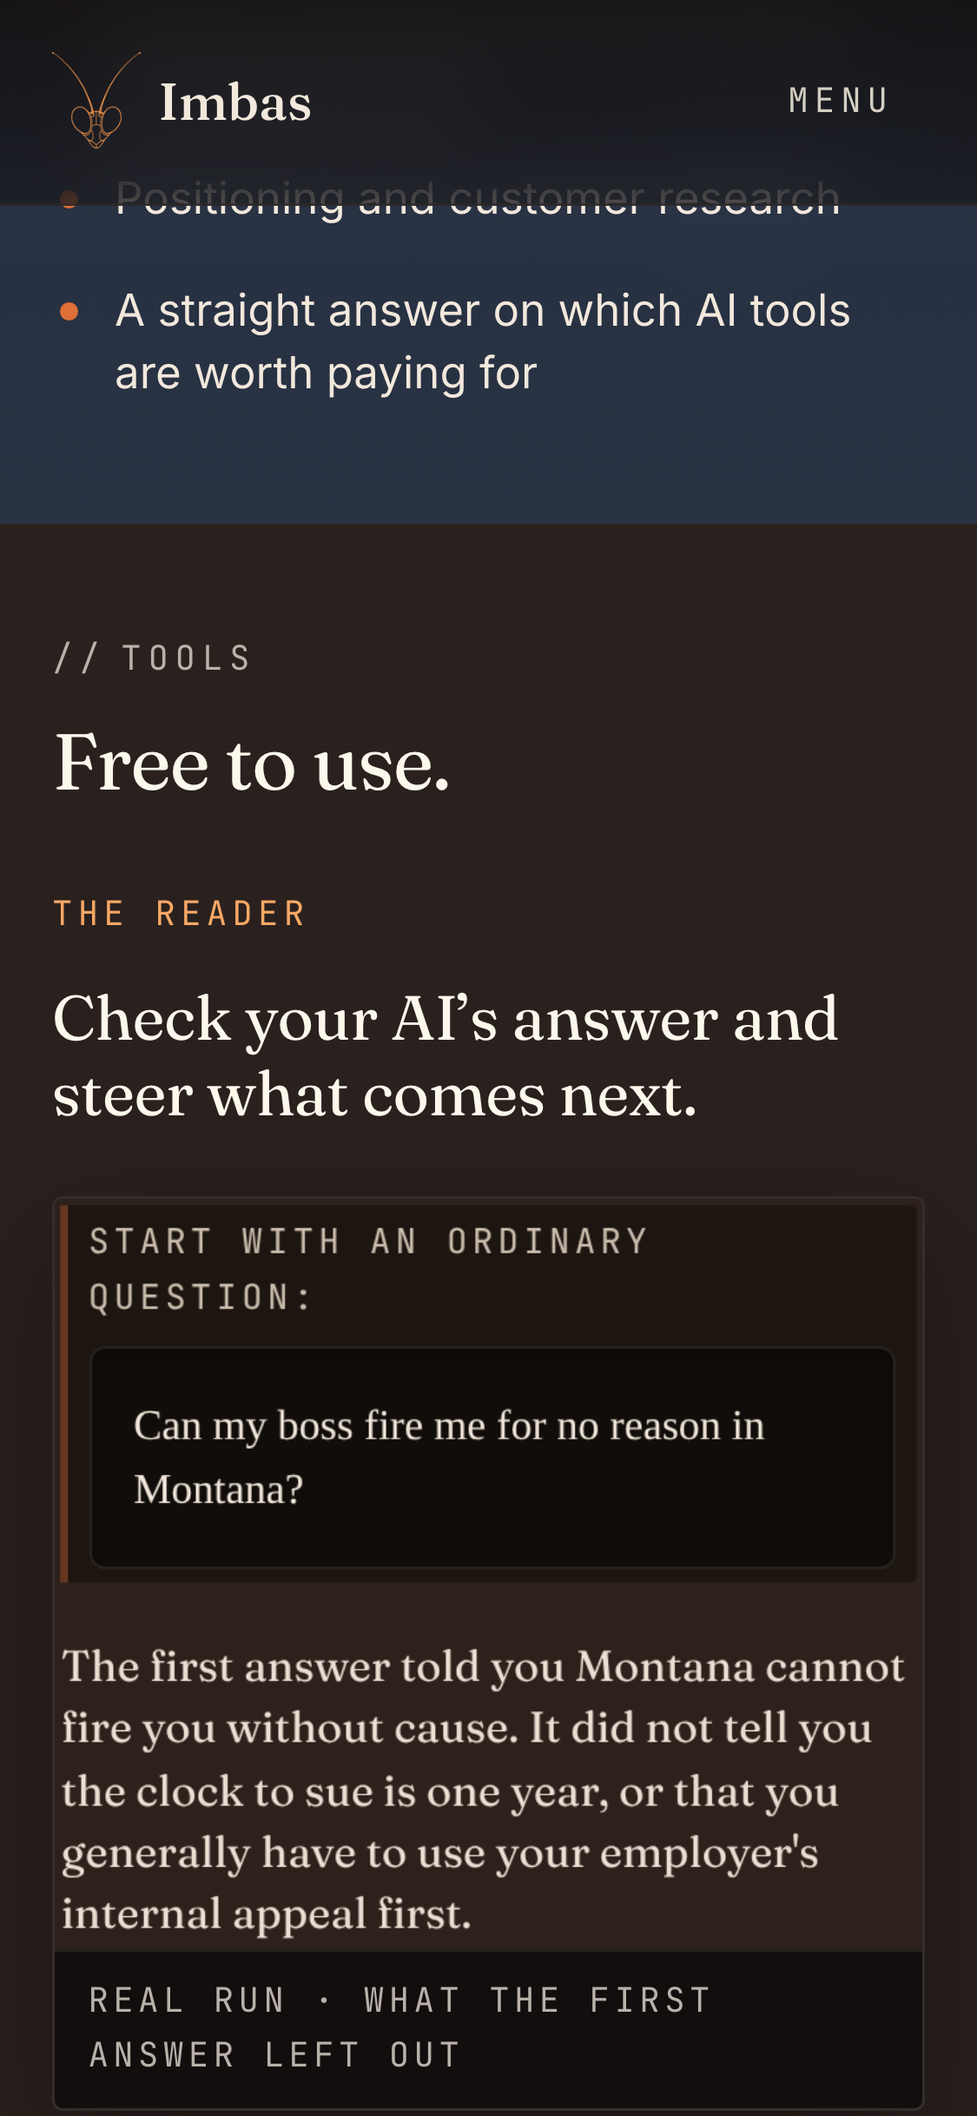
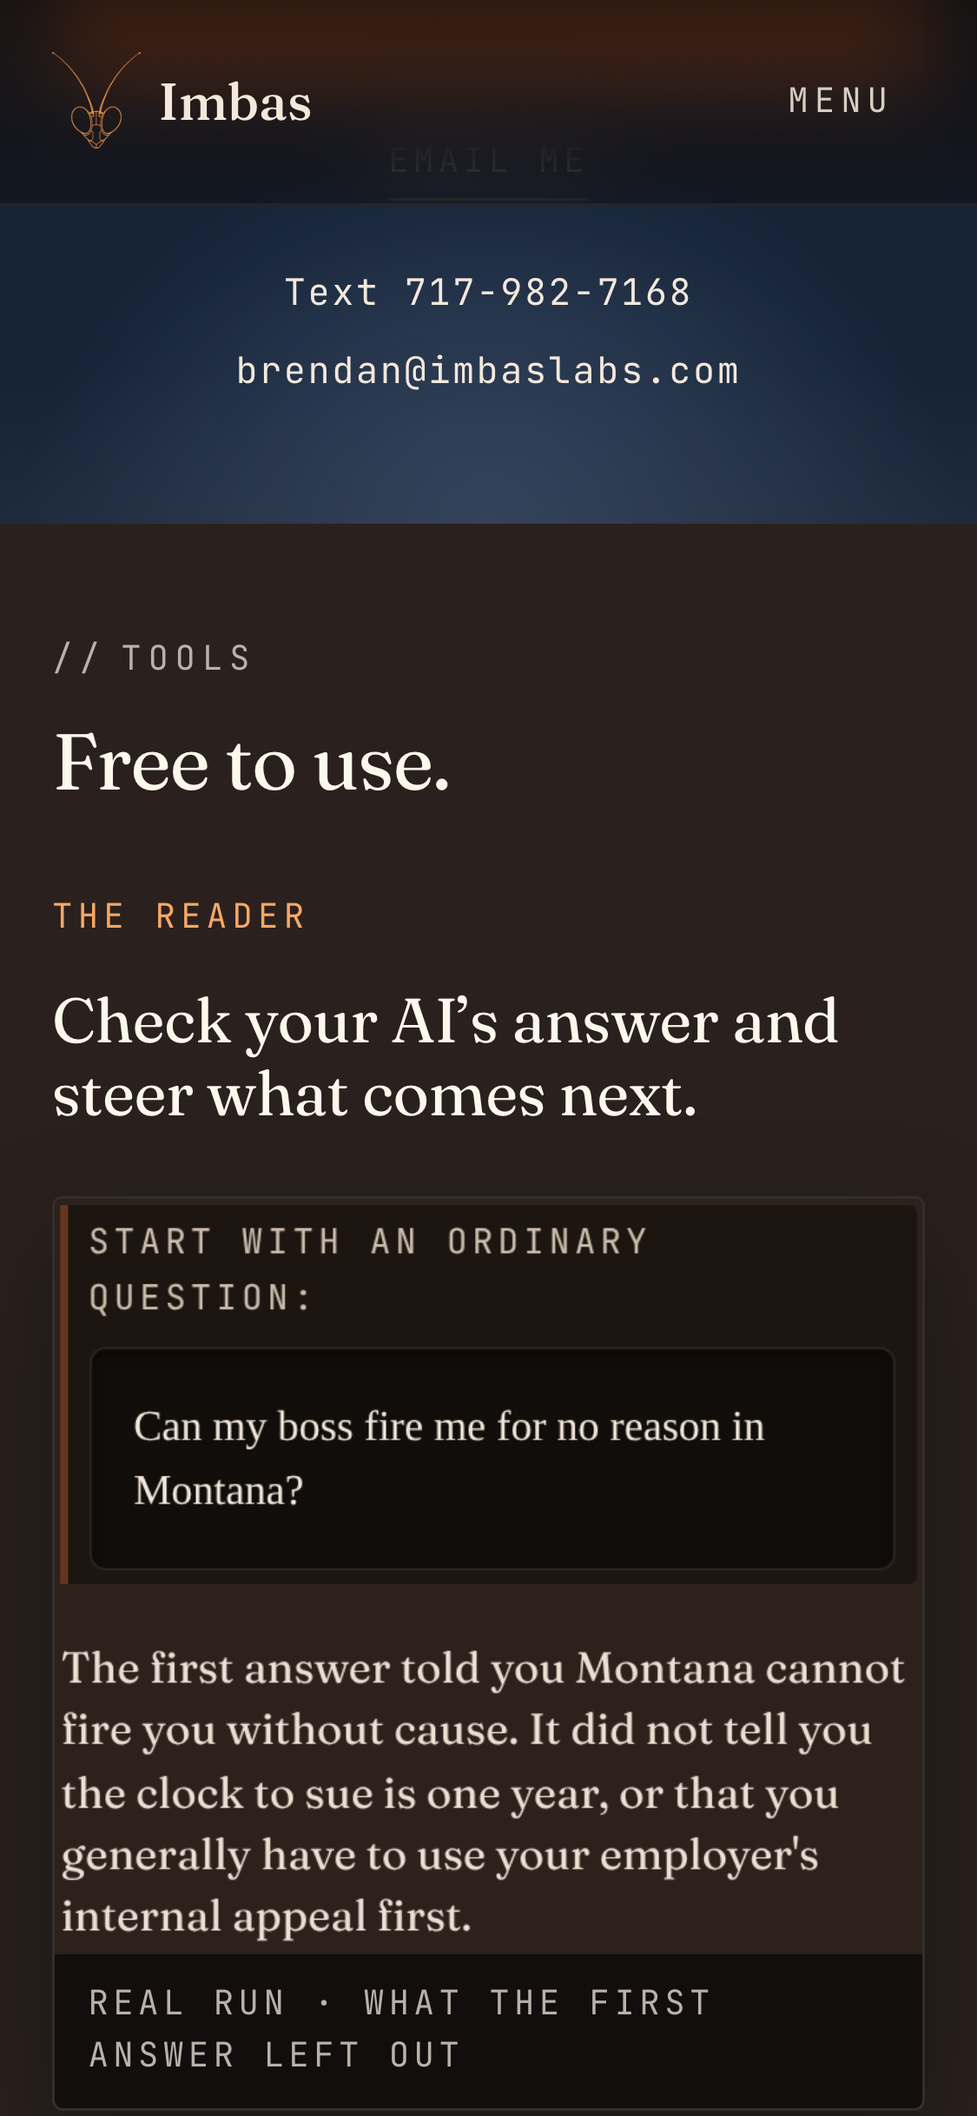
Show who I am, three reviews and a way to reply on the homepage
Item 2 of the founder brief "Homepage: ready for outreach". New order:
hero, advisory band, who you'd work with, work with me, tools, research,
why Imbas exists, the drift section and the Updates signup.

- Hero: "Work with me" links to #work-with-me.
- Advisory band: "Work with me" links to #work-with-me, with a "What I
  take on" text link to /advisory.html beside it and "The first
  conversation is free." under them. Copy unchanged.
- New, warm: Advisory's person block word for word (label, photo, name,
  LinkedIn, bio) with "Lykens, Pennsylvania" under the name, the 101
  five-star reviews tile only, then the reviews heading, note and first
  three quotes with their dates.
- New, cool navy, id work-with-me: Advisory's closing heading, note and
  free line word for word, then the reply block: Text me
  (sms:+17179827168?&body=Hi%20Brendan%2C%20I%20found%20you%20through%20imbaslabs.com.%20),
  Email me (the existing mailto), "Text 717-982-7168" and the address.
  The confidentiality note stays on Advisory.

The bands still alternate: slate, warm, navy, warm, navy, warm, slate,
warm. The rules for the reused blocks moved from advisory.html into
styles.css instead of being copied; Advisory renders byte-identical to
master at 1440 and 390 after the move (full-page captures).

Board: home-tools moved at both viewports and nothing else did. With
only index.html reverted to ec4d511 in a throwaway copy both frames
[…]

diff --git a/advisory.html b/advisory.html
@@ -32,8 +32,6 @@
   <style>
     /* Advisory page. Tokens only, no new colours. */
     .adv { background: var(--bg-base); }
-    .adv-wrap { max-width: 1120px; margin: 0 auto; padding: 0 var(--space-4); }
-    .adv-label { margin-bottom: var(--space-3); }
 
     /* Masthead (unchanged) */
     .adv-hero { position: relative; overflow: hidden; padding: var(--space-6) 0 var(--space-5); border-bottom: 1px solid var(--line-faint); }
@@ -65,25 +63,13 @@
     .band-cool--navy { background: radial-gradient(ellipse 70% 42% at 50% 100%, var(--slate-bloom), transparent 68%), var(--bg-base); }
     .band-cool--navy::before { background: radial-gradient(ellipse 82% 46% at 50% 108%, var(--slate-bloom), transparent 66%), radial-gradient(ellipse 48% 32% at 18% 18%, var(--slate-deeper), transparent 74%); opacity: 0.68; }
 
-    .adv-band h2 { font-family: var(--font-display); font-weight: 400; color: var(--ink-luminous); font-size: clamp(1.6rem, 2.6vw, 2.1rem); line-height: 1.15; margin: 0 0 var(--space-3); }
-    .adv-intro { font-family: var(--font-display); font-size: clamp(1.1rem, 1.7vw, 1.3rem); line-height: 1.5; color: var(--ink-soft); max-width: 52ch; margin: 0 0 var(--space-5); }
-
     /* What I take on */
     .adv-work { list-style: none; margin: 0; padding: 0; display: grid; grid-template-columns: repeat(2, minmax(0, 1fr)); gap: var(--space-4) var(--space-5); max-width: 1040px; }
     .adv-work li { display: grid; grid-template-columns: 10.5rem 1fr; gap: var(--space-2); }
     .adv-work span { font-family: var(--font-mono); font-size: max(0.75rem, var(--mono-min)); letter-spacing: 0.14em; text-transform: uppercase; color: var(--ember-bright); padding-top: 0.3rem; }
     .adv-work p { margin: 0; font-size: 1.0625rem; line-height: 1.55; color: var(--ink-primary); }
 
-    /* Who you'd work with */
-    .adv-who { display: grid; grid-template-columns: 6fr 5fr; gap: var(--space-5); align-items: start; }
-    .adv-person { display: grid; grid-template-columns: 140px 1fr; gap: var(--space-4); align-items: start; }
-    .adv-person__photo { display: block; width: 140px; height: 140px; object-fit: cover; border-radius: 4px; }
-    .adv-name-row { display: flex; flex-wrap: wrap; align-items: baseline; gap: 0.4rem 1.1rem; margin: 0 0 var(--space-3); }
-    .adv-name-row h2 { margin: 0; }
-    .adv-founder-p { font-size: 1.0625rem; line-height: 1.65; color: var(--ink-soft); margin: 0 0 var(--space-3); max-width: 60ch; }
-    .adv-stats { list-style: none; margin: 0; padding: 0; display: grid; grid-template-columns: repeat(2, minmax(0, 1fr)); gap: var(--space-4) var(--space-3); }
-    .adv-stats b { display: block; font-family: var(--font-display); font-weight: 400; font-size: clamp(1.6rem, 2.6vw, 2.1rem); line-height: 1.1; color: var(--ink-luminous); margin-bottom: 0.35rem; }
-    .adv-stats span { display: block; font-size: 0.95rem; line-height: 1.4; color: var(--ink-secondary); }
+    /* Who you'd work with: the person and stats rules are in styles.css, shared with the homepage. */
     .adv-built { margin: var(--space-6) 0 0; display: grid; grid-template-columns: 5fr 7fr; gap: var(--space-5); align-items: center; }
     .adv-built__label { display: block; font-family: var(--font-mono); font-size: max(0.75rem, var(--mono-min)); letter-spacing: 0.16em; text-transform: uppercase; color: var(--ember-soft); margin: 0 0 var(--space-3); }
     .adv-built ul { list-style: none; margin: 0 0 var(--space-3); padding: 0; }
@@ -94,41 +80,26 @@
     .adv-built__shot img { display: block; width: 100%; height: auto; border: 1px solid var(--line-soft); border-radius: 4px; box-shadow: 0 20px 50px rgba(0,0,0,0.35); }
     .adv-built__cap { margin: var(--space-2) 0 0; font-family: var(--font-mono); font-size: max(0.6875rem, var(--mono-min)); letter-spacing: 0.14em; text-transform: uppercase; color: var(--ink-secondary); }
 
-    /* Reviews */
-    .adv-quotes { display: grid; grid-template-columns: repeat(2, minmax(0, 1fr)); gap: var(--space-5) var(--space-6); max-width: 1040px; }
-    .adv-quotes blockquote { margin: 0; }
-    .adv-quotes p { margin: 0 0 var(--space-2); font-family: var(--font-display); font-size: 1.2rem; line-height: 1.5; color: var(--ink-luminous); }
-    .adv-quotes cite { font-style: normal; font-family: var(--font-mono); font-size: max(0.75rem, var(--mono-min)); letter-spacing: 0.14em; text-transform: uppercase; color: var(--ink-secondary); }
-
     /* How I work */
     .adv-engage { display: grid; grid-template-columns: 5fr 7fr; gap: var(--space-5); align-items: start; }
     .adv-engage h3 { font-family: var(--font-display); font-weight: 400; font-size: clamp(1.4rem, 2.2vw, 1.75rem); line-height: 1.2; color: var(--ink-luminous); margin: 0; }
     .adv-engage p { margin: 0 0 var(--space-2); font-size: 1.0625rem; line-height: 1.6; color: var(--ink-soft); max-width: 60ch; }
 
-    /* Close */
-    .adv-close { padding: var(--space-7) 0 var(--space-6); text-align: center; }
-    .adv-close h2 { font-size: clamp(2rem, 4.4vw, 3.2rem); line-height: 1.1; margin: 0 0 var(--space-4); }
-    .adv-close__note { font-family: var(--font-display); font-size: clamp(1.05rem, 1.6vw, 1.25rem); line-height: 1.5; color: var(--ink-soft); max-width: 44ch; margin: calc(-1 * var(--space-2)) auto var(--space-4); }
-    .adv-close__free { font-family: var(--font-display); font-size: clamp(1.05rem, 1.6vw, 1.25rem); line-height: 1.5; color: var(--ink-soft); max-width: 44ch; margin: calc(-1 * var(--space-3)) auto var(--space-4); }
-    .adv-close .adv-actions { justify-content: center; }
+    /* Close: the reviews and closing rules are in styles.css, shared with the homepage. */
     .adv-terms { max-width: 64ch; margin: var(--space-5) auto 0; font-size: 0.875rem; line-height: 1.6; color: var(--ink-soft); }
     .adv-terms a { color: var(--ink-primary); }
 
     @media (max-width: 860px) {
-      .adv-work, .adv-quotes { grid-template-columns: 1fr; }
+      .adv-work { grid-template-columns: 1fr; }
       .adv-work li { grid-template-columns: 1fr; gap: 0.4rem; }
-      .adv-who, .adv-engage, .adv-built { grid-template-columns: 1fr; gap: var(--space-4); }
+      .adv-engage, .adv-built { grid-template-columns: 1fr; gap: var(--space-4); }
       .adv-built { margin-top: var(--space-5); }
     }
     @media (max-width: 600px) {
-      .adv-wrap { padding: 0 var(--space-3); }
       .adv-hero { padding: var(--space-5) 0 var(--space-5); }
       .adv-hero h1 { font-size: 2.35rem; }
       .adv-hero__lede { font-size: 1.1rem; margin-bottom: var(--space-3); }
       .adv-band { padding: var(--space-5) 0; }
-      .adv-close { padding: var(--space-6) 0 var(--space-5); }
-      .adv-person { grid-template-columns: 1fr; gap: var(--space-3); }
-      .adv-person__photo { width: 112px; height: 112px; }
     }
   </style>
   <script type="application/ld+json">

diff --git a/index.html b/index.html
@@ -141,6 +141,11 @@
   .adv-band__examples li::before { content: ""; position: absolute; left: 0.2rem; top: 1.1rem; width: 7px; height: 7px; border-radius: 50%; background: var(--ember); }
   @media (max-width: 860px) { .adv-band .home-band__inner { grid-template-columns: 1fr; gap: var(--space-4); } .adv-band .home-band__btn { width: 100%; justify-content: center; } }
 
+  /* Who you'd work with, and Work with me: Advisory's blocks, styled from styles.css. Here
+     they take the homepage's gutter and sit above the cool band's overlays. */
+  main > .stakes > .adv-wrap { position: relative; z-index: 2; padding: 0 clamp(1.25rem, 4vw, 3rem); }
+  .adv-who + .adv-reviews { margin-top: var(--space-6); }
+
   /* Research: where each section that moved now lives. */
   .res-teaser p { font-family: var(--font-display); font-size: clamp(1.05rem, 1.6vw, 1.25rem); line-height: 1.55; color: var(--ink-soft); margin: 0 0 var(--space-4); max-width: 52ch; }
   .res-teaser__map { list-style: none; margin: 0 0 var(--space-5); padding: 0; max-width: 52rem; columns: 2; column-gap: var(--space-5); }
@@ -221,7 +226,7 @@
         </h1>
 
         <div class="hero__capture-block hero2-actions">
-          <a class="hero2-adv" href="/advisory.html">Work with me <span aria-hidden="true">&rarr;</span></a>
+          <a class="hero2-adv" href="#work-with-me">Work with me <span aria-hidden="true">&rarr;</span></a>
           <form class="hero__capture" action="/reader.html" method="get">
             <input type="hidden" name="reader" value="1">
             <button type="submit">Try the Reader</button>
@@ -240,7 +245,11 @@
         <span class="section-label section-label--named"><span>AI advisory</span></span>
         <h2 id="advisory-h2">Work out what&rsquo;s worth changing.</h2>
         <p>You may have a process that takes too long, a question about your customers, or an idea you haven&rsquo;t had time to test. I learn how the work gets done, help you decide what to change first, then put it in place and make sure it works. AI is part of what I bring, alongside research and experience running a business.</p>
-        <a href="/advisory.html" class="home-band__btn">Work with me <span aria-hidden="true">&rarr;</span></a>
+        <div class="adv-actions">
+          <a href="#work-with-me" class="home-band__btn">Work with me <span aria-hidden="true">&rarr;</span></a>
+          <a class="adv-textlink" href="/advisory.html">What I take on</a>
+        </div>
+        <p class="adv-free">The first conversation is free.</p>
       </div>
       <div class="adv-band__examples">
         <p class="adv-band__examples-label">For example</p>
@@ -251,6 +260,59 @@
           <li>Positioning and customer research</li>
           <li>A straight answer on which AI tools are worth paying for</li>
         </ul>
+      </div>
+    </div>
+  </section>
+
+  <!-- WHO YOU'D WORK WITH — warm. Advisory's person block, its review tile and its first
+       three reviews, word for word; the rules are shared from styles.css. -->
+  <section class="stakes section-scene" aria-labelledby="adv-proof-h2">
+    <div class="adv-wrap">
+      <div class="adv-who">
+        <div>
+          <span class="section-label section-label--named adv-label"><span>Who you&rsquo;d work with</span></span>
+          <div class="adv-person">
+            <img class="adv-person__photo" src="/advisory-assets/brendan-nestor.jpg" width="140" height="140" alt="Brendan Nestor">
+            <div>
+              <div class="adv-name-row">
+                <h2 id="adv-proof-h2">Brendan Nestor</h2>
+                <a class="adv-textlink" href="https://www.linkedin.com/in/brendannestor" rel="me">LinkedIn</a>
+              </div>
+              <p class="adv-place">Lykens, Pennsylvania</p>
+              <p class="adv-founder-p">I&rsquo;ve led growth at an early-stage company, managed a team across LA, New York and Europe, and built and run my own service business. At Imbas I also measure what AI answers leave out. That&rsquo;s how I know where AI is worth using in your business, and where a person still needs to check its work.</p>
+            </div>
+          </div>
+        </div>
+        <ul class="adv-stats" role="list">
+          <li><b>101</b><span>Five-star client reviews from my earlier service business</span></li>
+        </ul>
+      </div>
+      <div class="adv-reviews">
+        <h2 id="adv-rev-h2">What clients say about working with me</h2>
+        <p class="adv-intro">Reviews from my earlier service work.</p>
+        <div class="adv-quotes">
+          <blockquote><p>&ldquo;Total professional. No problems. Just solutions.&rdquo;</p><cite>Client review, Nov 2024</cite></blockquote>
+          <blockquote><p>&ldquo;Super helpful, super resourceful and a great problem solver!&rdquo;</p><cite>Client review, Aug 2024</cite></blockquote>
+          <blockquote><p>&ldquo;&hellip;clear, professional, and checked in every step to make sure it was done right. He followed every instruction to the letter, took initiative where it made sense&hellip; Totally reliable.&rdquo;</p><cite>Client review, Apr 2025</cite></blockquote>
+        </div>
+      </div>
+    </div>
+  </section>
+
+  <!-- WORK WITH ME — cool, the Case Archive navy. Advisory's closing section, word for word,
+       with the reply block. The confidentiality note stays on the Advisory page. -->
+  <section class="stakes section-scene band-cool band-cool--navy adv-close" id="work-with-me" aria-labelledby="adv-close-h2">
+    <div class="adv-wrap">
+      <h2 id="adv-close-h2">Tell me what&rsquo;s slowing you down.</h2>
+      <p class="adv-close__note">A few lines about what you want to improve and how you handle it now are enough to start.</p>
+      <p class="adv-close__free">The first conversation is free.</p>
+      <div class="reply-block">
+        <div class="adv-actions">
+          <a class="adv-btn" href="sms:+17179827168?&amp;body=Hi%20Brendan%2C%20I%20found%20you%20through%20imbaslabs.com.%20">Text me <span aria-hidden="true">&rarr;</span></a>
+          <a class="adv-textlink" href="mailto:brendan@imbaslabs.com?subject=Work%20with%20me">Email me</a>
+        </div>
+        <p class="adv-close__addr">Text <span class="reply-block__select">717-982-7168</span></p>
+        <p class="adv-close__addr"><span class="reply-block__select">brendan@imbaslabs.com</span></p>
       </div>
     </div>
   </section>

diff --git a/styles.css b/styles.css
@@ -10060,3 +10060,50 @@ main > .close::before {
 @media (max-width: 600px) {
   .adv-btn { width: 100%; justify-content: center; }
 }
+
+/* The person, reviews and closing blocks. Advisory carries them and the homepage reuses
+   them, so their rules moved here from advisory.html. Two selectors changed in the move
+   and resolve the same on Advisory: .adv-band h2 became .adv-wrap h2, because the
+   homepage's copies sit in .adv-wrap but not in an .adv-band; and the close's padding is
+   keyed to section.adv-close, so it still outranks Advisory's inline .adv-band padding
+   now that this file loads before that style. .adv-place and .adv-actions + .adv-free
+   are new: the location line under the name, and the free-conversation line under a
+   pair of actions. */
+.adv-wrap { max-width: 1120px; margin: 0 auto; padding: 0 var(--space-4); }
+.adv-label { margin-bottom: var(--space-3); }
+.adv-wrap h2 { font-family: var(--font-display); font-weight: 400; color: var(--ink-luminous); font-size: clamp(1.6rem, 2.6vw, 2.1rem); line-height: 1.15; margin: 0 0 var(--space-3); }
+.adv-intro { font-family: var(--font-display); font-size: clamp(1.1rem, 1.7vw, 1.3rem); line-height: 1.5; color: var(--ink-soft); max-width: 52ch; margin: 0 0 var(--space-5); }
+
+.adv-who { display: grid; grid-template-columns: 6fr 5fr; gap: var(--space-5); align-items: start; }
+.adv-person { display: grid; grid-template-columns: 140px 1fr; gap: var(--space-4); align-items: start; }
+.adv-person__photo { display: block; width: 140px; height: 140px; object-fit: cover; border-radius: 4px; }
+.adv-name-row { display: flex; flex-wrap: wrap; align-items: baseline; gap: 0.4rem 1.1rem; margin: 0 0 var(--space-3); }
+.adv-name-row h2 { margin: 0; }
+.adv-place { margin: calc(-1 * var(--space-2)) 0 var(--space-3); font-family: var(--font-mono); font-size: max(0.75rem, var(--mono-min)); letter-spacing: 0.14em; text-transform: uppercase; color: var(--ink-secondary); }
+.adv-founder-p { font-size: 1.0625rem; line-height: 1.65; color: var(--ink-soft); margin: 0 0 var(--space-3); max-width: 60ch; }
+.adv-stats { list-style: none; margin: 0; padding: 0; display: grid; grid-template-columns: repeat(2, minmax(0, 1fr)); gap: var(--space-4) var(--space-3); }
+.adv-stats b { display: block; font-family: var(--font-display); font-weight: 400; font-size: clamp(1.6rem, 2.6vw, 2.1rem); line-height: 1.1; color: var(--ink-luminous); margin-bottom: 0.35rem; }
+.adv-stats span { display: block; font-size: 0.95rem; line-height: 1.4; color: var(--ink-secondary); }
+
+.adv-quotes { display: grid; grid-template-columns: repeat(2, minmax(0, 1fr)); gap: var(--space-5) var(--space-6); max-width: 1040px; }
+.adv-quotes blockquote { margin: 0; }
+.adv-quotes p { margin: 0 0 var(--space-2); font-family: var(--font-display); font-size: 1.2rem; line-height: 1.5; color: var(--ink-luminous); }
+.adv-quotes cite { font-style: normal; font-family: var(--font-mono); font-size: max(0.75rem, var(--mono-min)); letter-spacing: 0.14em; text-transform: uppercase; color: var(--ink-secondary); }
+
+section.adv-close { padding: var(--space-7) 0 var(--space-6); text-align: center; }
+.adv-close h2 { font-size: clamp(2rem, 4.4vw, 3.2rem); line-height: 1.1; margin: 0 0 var(--space-4); }
+.adv-close__note { font-family: var(--font-display); font-size: clamp(1.05rem, 1.6vw, 1.25rem); line-height: 1.5; color: var(--ink-soft); max-width: 44ch; margin: calc(-1 * var(--space-2)) auto var(--space-4); }
+.adv-close__free { font-family: var(--font-display); font-size: clamp(1.05rem, 1.6vw, 1.25rem); line-height: 1.5; color: var(--ink-soft); max-width: 44ch; margin: calc(-1 * var(--space-3)) auto var(--space-4); }
+.adv-close .adv-actions { justify-content: center; }
+.adv-actions + .adv-free { margin: var(--space-3) 0 0; font-family: var(--font-display); font-size: clamp(1.05rem, 1.6vw, 1.25rem); line-height: 1.5; color: var(--ink-soft); }
+
+@media (max-width: 860px) {
+  .adv-quotes { grid-template-columns: 1fr; }
+  .adv-who { grid-template-columns: 1fr; gap: var(--space-4); }
+}
+@media (max-width: 600px) {
+  .adv-wrap { padding: 0 var(--space-3); }
+  section.adv-close { padding: var(--space-6) 0 var(--space-5); }
+  .adv-person { grid-template-columns: 1fr; gap: var(--space-3); }
+  .adv-person__photo { width: 112px; height: 112px; }
+}

diff --git a/docs/qa/visual-acceptance-harness/manifest.md b/docs/qa/visual-acceptance-harness/manifest.md
@@ -575,14 +575,14 @@ A board that lists only what it covers reads as complete. These are the result s
 
 | field | value |
 | --- | --- |
[1 lines of base64/hex data omitted]
-| bytes | 396895 |
[1 lines of base64/hex data omitted]
+| bytes | 500530 |
 | snapshot | `home-tools--desktop.snapshot.txt` |
[1 lines of base64/hex data omitted]
-| snapshot bytes | 1282 |
[1 lines of base64/hex data omitted]
+| snapshot bytes | 1272 |
 | viewport | 1440x900@2x (desktop) |
 | url | `/index.html`, query `(none)` |
-| framed on | `.tool-card--reader h3` at scroll offset 1132 |
+| framed on | `.tool-card--reader h3` at scroll offset 2748 |
 | browser | `HeadlessChrome/148.0.7778.96` |
 | state captured | The homepage's Tools section — the Reader card, with both of the Reader's uses described |
 | expected behaviour | The section the v4.4 refresh put directly under the hero. Framed on the Reader card's headline, so the frame holds the tool name, the headline, the one paragraph that carries both uses (see what surfaced; pick what should change and compare), the Open the Reader action and the real inspection example beside them. The steering capture sits below this frame on desktop and is held by its own markup, not photographed here. |
@@ -591,14 +591,14 @@ A board that lists only what it covers reads as complete. These are the result s
 
 | field | value |
 | --- | --- |
[1 lines of base64/hex data omitted]
-| bytes | 393283 |
[1 lines of base64/hex data omitted]
+| bytes | 573372 |
 | snapshot | `home-tools--mobile.snapshot.txt` |
[1 lines of base64/hex data omitted]
-| snapshot bytes | 922 |
[1 lines of base64/hex data omitted]
+| snapshot bytes | 1014 |
 | viewport | 375x812@3x (mobile) |
 | url | `/index.html`, query `(none)` |
-| framed on | `.tool-card--reader h3` at scroll offset 1203 |
+| framed on | `.tool-card--reader h3` at scroll offset 3258 |
 | browser | `HeadlessChrome/148.0.7778.96` |
 | state captured | The homepage's Tools section — the Reader card, with both of the Reader's uses described |
 | expected behaviour | The section the v4.4 refresh put directly under the hero. Framed on the Reader card's headline, so the frame holds the tool name, the headline, the one paragraph that carries both uses (see what surfaced; pick what should change and compare), the Open the Reader action and the real inspection example beside them. The steering capture sits below this frame on desktop and is held by its own markup, not photographed here. |
